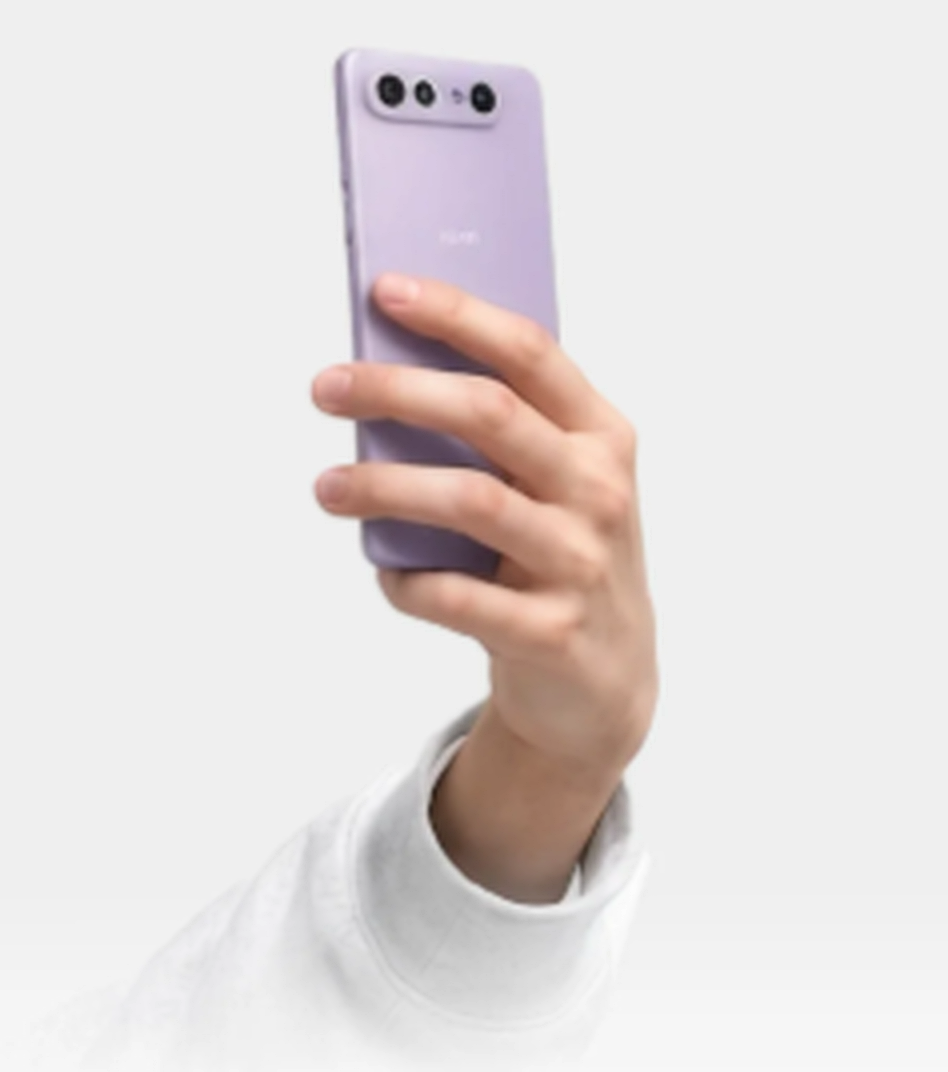
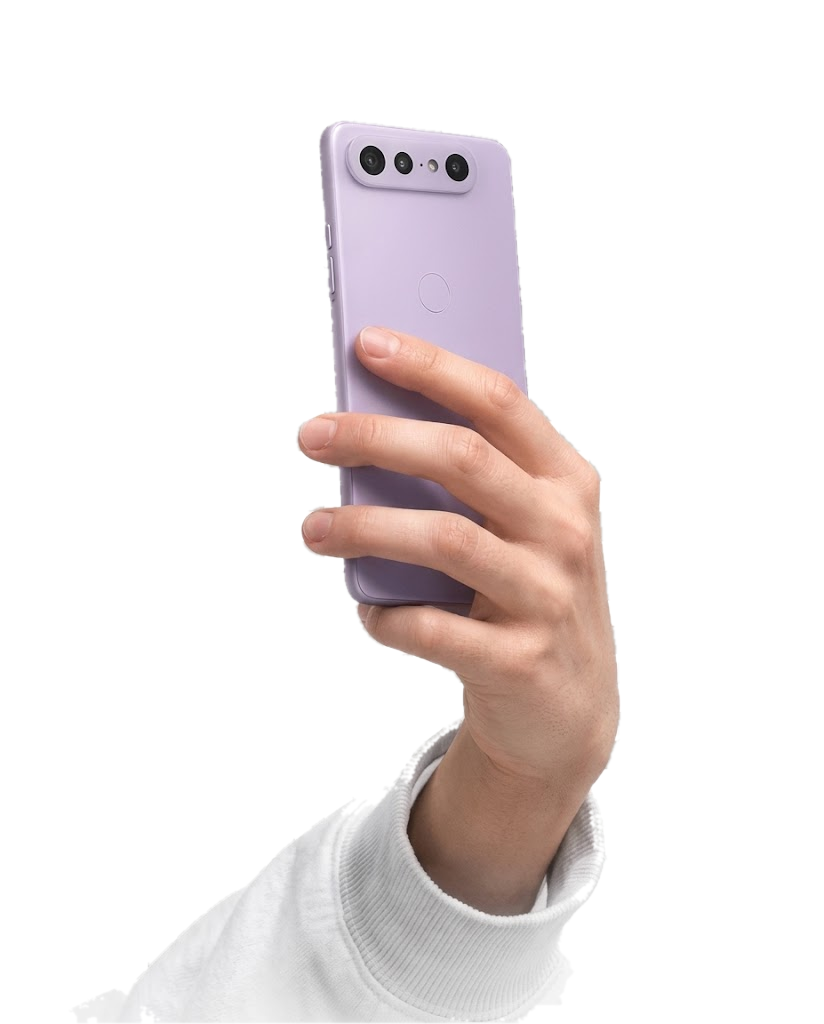
Foto original da mão com o celular na primeira tela
Imagem em boa resolução com o xadrez de fundo removido (fundo
transparente), sobre o cinza da tela.

Claude-Session: https://claude.ai/code/session_016UVNgM8L7MAvyyig7zYn72

Changed region(s): [[0.3034, 0.0312, 0.7585, 1.0], [0.182, 0.8125, 0.2731, 0.9375]]

diff --git a/onboarding.css b/onboarding.css
@@ -157,7 +157,7 @@
   color: var(--ob-muted);
 }
 
-/* A foto tem o mesmo fundo cinza da tela, então as bordas somem */
+/* Foto com fundo transparente sobre o cinza da tela */
 .ob-hand-stage {
   flex: 1;
   min-height: 0;
@@ -174,14 +174,9 @@
   height: 100%;
   object-fit: contain;
   object-position: center bottom;
-  -webkit-mask-image:
-    linear-gradient(to bottom, #000 80%, transparent),
-    linear-gradient(to right, transparent, #000 8%, #000 92%, transparent);
-  -webkit-mask-composite: source-in;
-  mask-image:
-    linear-gradient(to bottom, #000 80%, transparent),
-    linear-gradient(to right, transparent, #000 8%, #000 92%, transparent);
-  mask-composite: intersect;
+  /* a blusa some aos poucos no pé da tela, como na referência */
+  -webkit-mask-image: linear-gradient(to bottom, #000 78%, transparent);
+  mask-image: linear-gradient(to bottom, #000 78%, transparent);
 }
 
 /* ---------- Rodapé ---------- */

diff --git a/index.html b/index.html
@@ -4,8 +4,8 @@
   <meta charset="UTF-8" />
   <meta name="viewport" content="width=device-width, initial-scale=1, viewport-fit=cover, user-scalable=no" />
   <title>Câmera Jovi</title>
-  <link rel="stylesheet" href="style.css?v=32" />
-  <link rel="stylesheet" href="onboarding.css?v=32" />
+  <link rel="stylesheet" href="style.css?v=33" />
+  <link rel="stylesheet" href="onboarding.css?v=33" />
 </head>
 <body>
 
@@ -387,7 +387,7 @@
 
   <canvas id="capture-canvas" class="hidden"></canvas>
 
-  <script src="camera.js?v=32"></script>
-  <script src="onboarding.js?v=32"></script>
+  <script src="camera.js?v=33"></script>
+  <script src="onboarding.js?v=33"></script>
 </body>
 </html>
